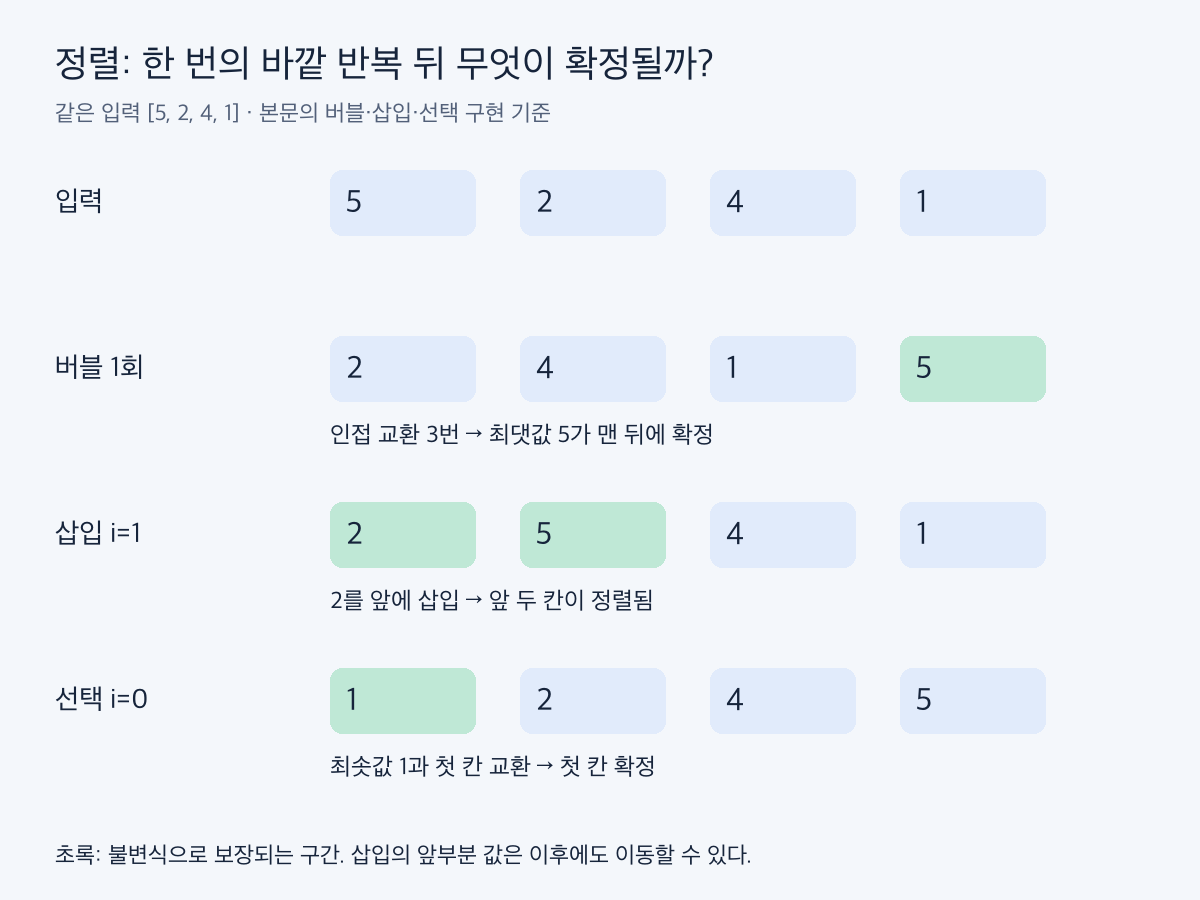
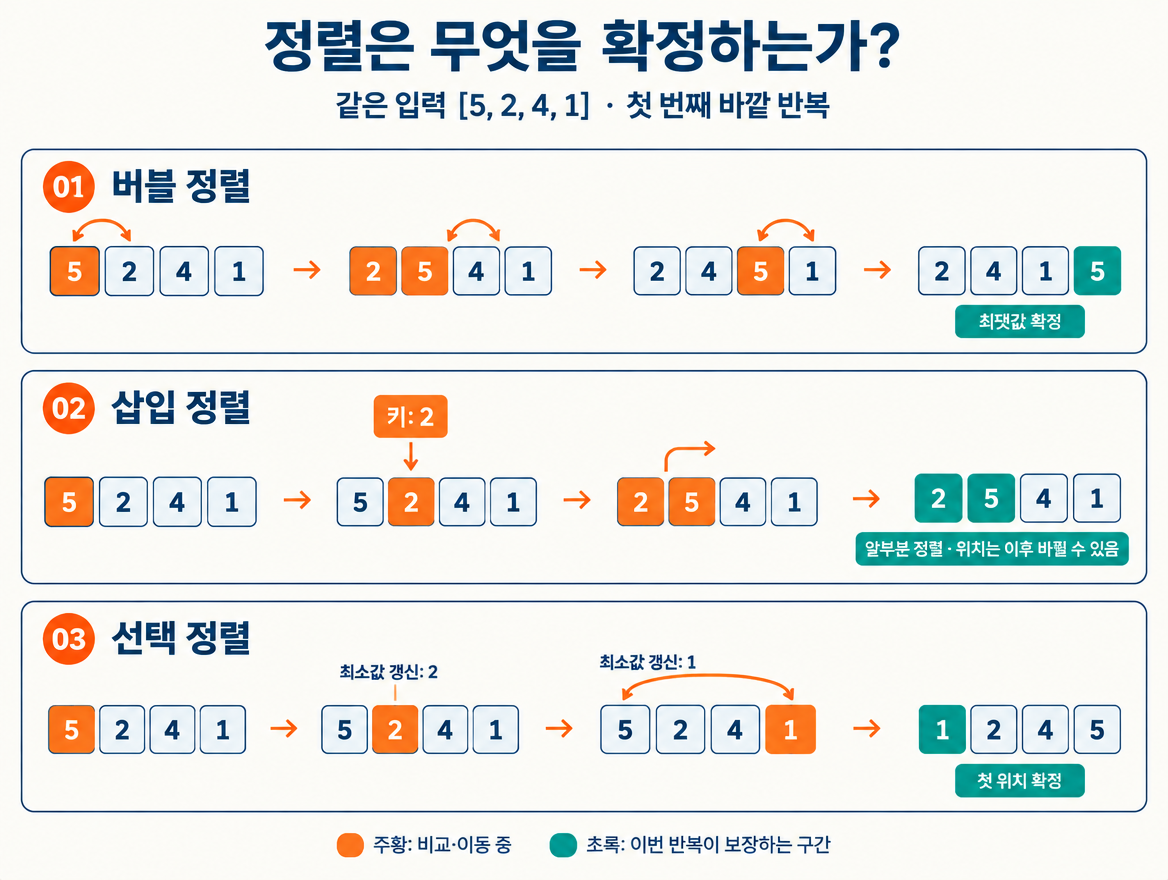
docs: 정렬 과정 설명 그림 개선

Changed region(s): [[0.0308, 0.0, 0.9863, 0.8591], [0.0308, 0.7364, 0.9863, 0.9818], [0.0308, 0.5216, 0.2158, 0.6136]]

diff --git a/0916_정렬.md b/0916_정렬.md
@@ -17,7 +17,7 @@
 
 K는 키 범위의 크기다. 퀵의 평균은 입력 순서 등에 대한 가정을 전제로 한다. 조기 종료 없는 버블 구현은 이미 정렬된 입력에서도 O(n²)다. 표의 버블은 아래처럼 종료 조건을 추가한 버전이다.
 
-![입력 5, 2, 4, 1에 대한 세 정렬의 첫 바깥 반복 결과](images/concept-notes/sorting-first-pass.png)
+![입력 5, 2, 4, 1에서 버블·삽입·선택 정렬의 이동 과정과 첫 반복이 보장하는 구간](images/concept-notes/sorting-first-pass.png)
 
 ## 2. 버블: 인접 교환으로 최댓값을 뒤로
 
